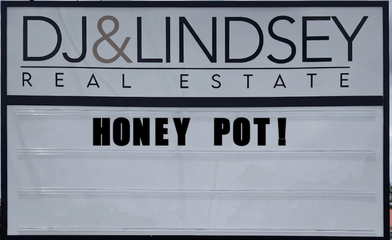
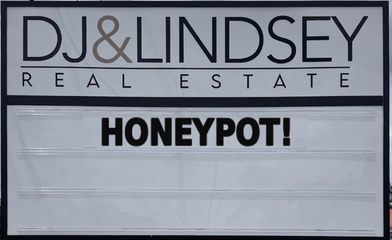
Add Todd's unfinished backyard pool storyline; sign reads HONEYPOT!
Claude-Session: https://claude.ai/code/session_01RRZhod26E5oThEUVGQfLUS

Changed region(s): [[0.2143, 0.4667, 0.7653, 0.6125]]

diff --git a/game.js b/game.js
@@ -218,6 +218,9 @@ const PREP_FLAVOR = [
   'Todd tells the mail carrier to "stay safe out there." The mail carrier is confused.',
   'Todd re-labels every jug in the garage with the date and his initials. Twice.',
   'A peacock is standing on Todd\'s Jeep Gladiator. Todd takes it as an omen.',
+  'Todd stares out the window at the pool he dug himself. It has been "almost done" since 2023. A frog lives there now. Todd has named him Gerald.',
+  'Kirsten asks when the pool will be finished. Todd says "after the grid goes down." Kirsten does not understand the answer.',
+  'Todd measures the hole in the backyard again. Still a hole. Still his.',
 ];
 
 function prepHub() {
@@ -240,6 +243,7 @@ function prepHub() {
       { label: 'Date night with Kirsten', fn: dateNight },
       { label: 'Bike day with Jennifer', fn: bikeDay },
       { label: 'Fill every container with water', fn: waterDay },
+      { label: 'Work on the unfinished pool', note: S.poolCistern ? '(now a cistern)' : '(dug it himself)', fn: poolDay },
       { label: 'Check supplies & crew', note: '(free)', fn: () => supplies(prepHub) },
     ],
   });
@@ -460,7 +464,7 @@ function hamRadio() {
 /* ---- Kirsten ---- */
 function kirstenHint() {
   const k = S.kirsten;
-  return k >= 70 ? 'Things are great between them.' : k >= 40 ? 'Things are... fine. Mostly.' : k >= 25 ? 'She has started saying "Todd." in a very flat voice.' : 'She has started looking at apartments in Palm Coast.';
+  return k >= 70 ? 'Things are great between them.' : k >= 40 ? 'Things are... fine. Mostly. She has asked about the pool 41 times.' : k >= 25 ? 'She has started saying "Todd." in a very flat voice.' : 'She has started looking at apartments in Palm Coast.';
 }
 function dateNight() {
   scene({
@@ -488,6 +492,20 @@ function bikeDay() {
       { label: 'Water purification', note: S.purify ? '(already learned)' : '', disabled: S.purify, fn: () => { S.purify = true; outcome('Clean Water', `Jennifer builds a filter out of a handkerchief, sand, charcoal and "what we did in the war" — then boils everything to be safe. "Never drink creek water straight, Todd." <b>She can now stretch your water on the trail.</b>`); } },
       { label: 'Buy spare bike parts from her stash ($30)', disabled: S.money < 30, fn: () => { S.money -= 30; S.bikeParts += 2; outcome('Parts Department', 'Two tubes, a chain link and a brass bell older than Todd\'s parents. +2 bike parts.'); } },
       { label: 'Ride with her to Vilano Beach and back', fn: () => { mood(15); hurt('Todd', 5); outcome('Leg Day', 'Twenty miles. Jennifer, who is very old, chats the whole way and still drops Todd on the bridge. Todd can no longer feel his thighs. But the bridge at sunrise? Unreal. Morale way up.'); } },
+    ],
+  });
+}
+
+/* ---- The unfinished pool ---- */
+function poolDay() {
+  scene({
+    title: 'The Unfinished Pool',
+    text: `In Todd's backyard is a pool. Technically, it is a hole. Todd dug it himself, by hand, starting in 2023, after watching one video. It is 4 feet deep at one end, 7 at the other, and 100% unfinished. It currently contains rainwater, leaves and a frog named Gerald.<br><br>${S.poolCistern ? 'It is lined with tarps now and collecting rainwater. Todd is very proud of it.' : 'Kirsten refers to it as "the Situation."'} What will Todd do with it today?`,
+    choices: [
+      { label: 'Line it with tarps — turn it into an emergency rainwater cistern ($40)', disabled: S.poolCistern || S.money < 40, note: S.poolCistern ? '(done)' : '', fn: () => { S.money -= 40; S.poolCistern = true; mood(10); S.kirsten -= 5; outcome('The Cistern', `Todd lines the hole with blue tarps and sandbags. It is not a pool. It is a <b>strategic water reserve</b>. When the grid goes down, it'll be full of rainwater. Gerald the frog is allowed to stay. Kirsten says it "looks like a crime scene."${S.bugSpray ? '' : ' The mosquitoes are thrilled.'}`); } },
+      { label: 'Dig deeper ("it\'s basically a bunker")', fn: () => { hurt('Todd', 10); mood(5); const r = R(1, 3); if (r === 1) { S.money += 60; outcome('Buried Treasure', 'Three feet down, Todd hits a rusty coffee can. Inside: $60 in old bills and a 1987 Gators ticket stub. +$60. Todd is now convinced the pool is lucky.'); } else if (r === 2) { outcome('Sprinkler Line', 'Todd hits the sprinkler line. Geyser! The pool is now 30% fuller and 0% more finished. Kirsten watches from the window, sipping coffee, saying nothing. Very loudly.'); } else { mood(10); outcome('Deeper', 'Todd digs for six hours. The pool is now 7 feet 4 inches at the deep end. He takes a selfie in the hole. He sends it to Matt. Matt replies: "They can\'t see you down there. Good."'); } } },
+      { label: 'Throw a "pool party" anyway (2 slices of cake)', disabled: S.cake < 2, fn: () => { S.cake -= 2; mood(15); S.kirsten += 10; S.djLoyal++; outcome('Pool Party', 'Todd throws a pool party at a pool that does not exist. DJ shows up in a hat and swim trunks and cannonballs into four inches of water. Eliza blesses the hole. West says, "A man is not measured by his pool." Kirsten laughs so hard she forgives Todd for the whole thing. Morale way up.'); } },
+      { label: 'Never mind', fn: prepHub },
     ],
   });
 }
@@ -584,6 +602,11 @@ function kelseyPrep() {
   });
 }
 
+NIGHT.push(
+  { ok: () => true, run: () => { mood(5); S.djLoyal++; say('Splash', `At 11 PM, DJ stops by "to see the pool" and walks straight into it in the dark. He emerges from four feet of rainwater holding Gerald the frog. His hat is still dry. Nobody knows how. "Todd," he says, dripping, "this is a GREAT pool."`, prepHub); } },
+  { ok: () => true, run: () => say('Aerial Surveillance', `Todd spots Kelsey on her roof at 2 AM, photographing his backyard pool with a long lens. The next morning there's a note in his mailbox: "Is missile silo, da?" Matt is going to love this.`, prepHub) },
+);
+
 function nightEvent() { pick(NIGHT.filter(e => e.ok())).run(); }
 
 function kirstenFindsCans() {
@@ -655,6 +678,8 @@ function gridDown() {
   lines.push(S.radioSetup
     ? `<b>Matt</b> crackles over the ham radio: "Todd, this is Matt. The Wawa on US-1 is lit up like Christmas. I'm heading there now with a few crates of ammo. Also, I need you to know this was NOT an accident. Over."`
     : `Without a ham radio, Todd has no idea where <b>Matt</b> is. (He's fine. He has nine radios, a bunker under his bunker, and 40,000 rounds of ammo.)`);
+  if (S.poolCistern) { const g = 30 + (S.purify ? 15 : 0); S.water += g; lines.push(`The backyard <b>pool</b> — still unfinished, but lined with tarps — is full of rainwater. ${S.purify ? 'Jennifer filters it the old-fashioned way. ' : ''}Todd pumps ${g} gallons into jugs. "WHO'S LAUGHING NOW, KIRSTEN?" (Kirsten is not laughing.) +${g} gallons of water.`); }
+  else lines.push(`Todd looks at the unfinished <b>pool</b> in the backyard one last time. It contains four inches of rainwater and Gerald the frog. Gerald will hold the fort.`);
   sad();
   say('THE GRID IS DOWN', `${dateStr(PREP_DAYS)}, 6:47 PM.<br><br>The ceiling fan slows. The fridge goes silent. Across St. Augustine, every light blinks out at once — even the Bridge of Lions. Somewhere, a man who just started a load of laundry screams.<br><br>Todd slowly rises from his recliner. He has been waiting for this moment for six years.<br><br>"It's happening."`,
     () => say('Roll Call', lines.join('<br><br>'), trailIntro), 'Gather the crew');
@@ -1497,7 +1522,7 @@ function scoreScreen() {
 }
 
 function epilogue() {
-  say('Epilogue', `Three days later, the power came back on.<br><br>The utility company traced the outage to a single squirrel in a transformer. The squirrel is fine. The squirrel has been named Employee of the Month by no one.<br><br>Todd stood in the Wawa parking lot as the streetlights flickered back on, one by one, all along US-1. ${has('Kirsten') ? 'Kirsten squeezed his hand. ' : ''}${has('DJ') ? 'DJ honked a boat horn. ' : ''}West nodded slowly. Eliza said she was very open-minded about the squirrel theory. Kelsey quietly deleted something from her phone. Somewhere, Matt said "it wasn't a squirrel," and then "over."<br><br>Todd looked down at ${S.cake ? 'his last slice of white cake' : 'the empty cake box'}.<br><br>"Next time," he whispered, "I'm going to need more cake."<br><br><span class="hl">THE END</span>`, () => hallOfFame(title), 'See the Hall of Fame');
+  say('Epilogue', `Three days later, the power came back on.<br><br>The utility company traced the outage to a single squirrel in a transformer. The squirrel is fine. The squirrel has been named Employee of the Month by no one.<br><br>Todd stood in the Wawa parking lot as the streetlights flickered back on, one by one, all along US-1. ${has('Kirsten') ? 'Kirsten squeezed his hand. ' : ''}${has('DJ') ? 'DJ honked a boat horn. ' : ''}West nodded slowly. Eliza said she was very open-minded about the squirrel theory. Kelsey quietly deleted something from her phone. Somewhere, Matt said "it wasn't a squirrel," and then "over."<br><br>When Todd finally got home, he stood at the edge of his unfinished pool. Gerald the frog looked up at him. "Next summer," Todd said. Gerald did not believe him either.<br><br>Todd looked down at ${S.cake ? 'his last slice of white cake' : 'the empty cake box'}.<br><br>"Next time," he whispered, "I'm going to need more cake."<br><br><span class="hl">THE END</span>`, () => hallOfFame(title), 'See the Hall of Fame');
 }
 
 /* ---- Hall of Fame ---- */
@@ -1510,6 +1535,7 @@ const HOF_SEED = [
   { n: 'Alex (score is all stolen cake)', s: 2600, r: 'Lieutenant of Lunchables' },
   { n: 'Brenda from the HOA', s: 1200, r: 'Grid-Down Greenhorn' },
   { n: 'The Squirrel', s: 900, r: 'Grid-Down Greenhorn' },
+  { n: 'Gerald (lives in the pool)', s: 650, r: 'Grid-Down Greenhorn' },
 ];
 function getHof() { try { const t = localStorage.getItem(HOF_KEY); return t ? JSON.parse(t) : HOF_SEED.slice(); } catch (e) { return HOF_SEED.slice(); } }
 function addHof(n, s, r) { const h = getHof(); h.push({ n, s, r }); h.sort((a, b) => b.s - a.s); try { localStorage.setItem(HOF_KEY, JSON.stringify(h.slice(0, 10))); } catch (e) { } }
